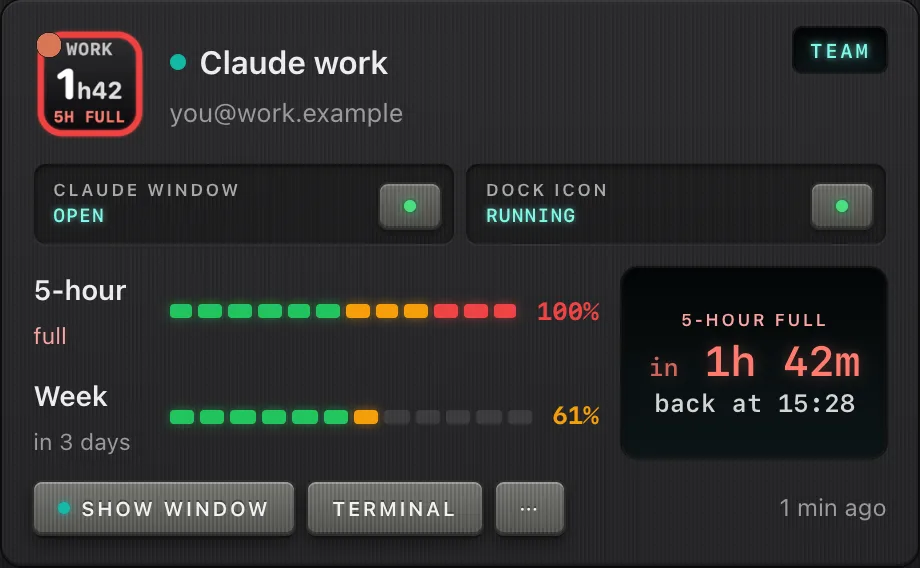
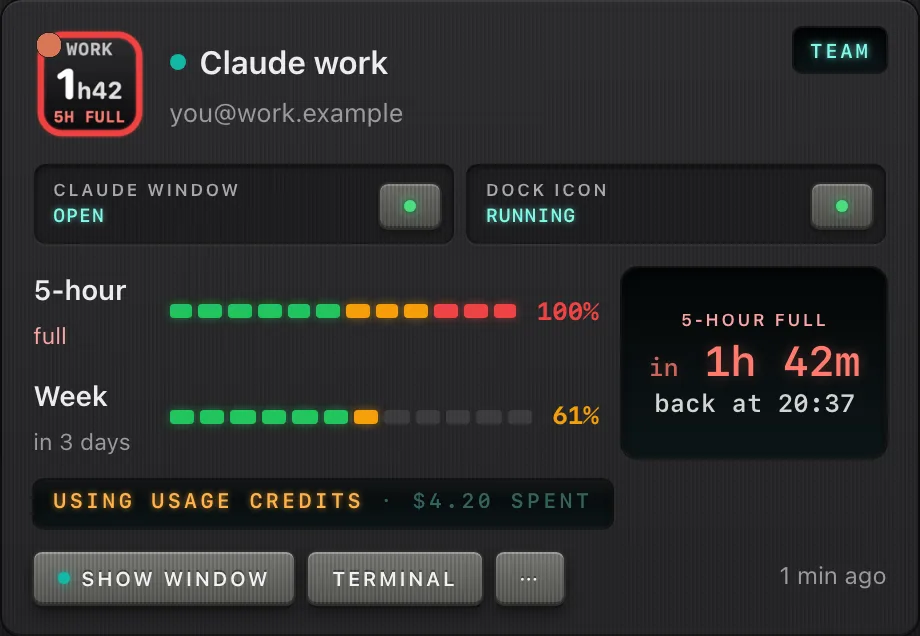
Usage history article and guide pictures for 26.11.0
The article gains the cost estimate at API list prices, the CSV key and the Usage
history switch; cache reads are priced in the estimate. The Alerts, full-limit card
and usage history pictures are recaptured from the demo (2x, Std, sample data only).
Humanize-reviewed (Sonnet).

diff --git a/src/content/use-cases/claude-code-usage-history.md b/src/content/use-cases/claude-code-usage-history.md
@@ -5,7 +5,7 @@ h1: "Claude Code usage history on your Mac"
 mainKeyword: "claude code usage history"
 kind: use-case
 published: 2026-11-02
-updated: 2026-11-02
+updated: 2026-11-04
 author: n-uf
 order: 3
 takeaways:
@@ -20,7 +20,7 @@ faq:
   - q: "Can I see usage by project?"
     a: "Yes. The \"Where it goes\" chart splits the share of tokens in the period by project, by model and by surface, so you can see which project or which model used most. The profile chips next to the period keys filter it to one account or more."
   - q: "Does it count cache reads?"
-    a: "No. The tokens chart counts input, cache writes and output, and says on the chart that cache reads are not counted. The totals are tokens and replies, not dollars."
+    a: "Not in the tokens chart: it counts input, cache writes and output, and says on the chart that cache reads are not counted. The cost estimate in the totals does include them, priced apart at the API's cache-read rate."
   - q: "Is anything uploaded?"
     a: "No. The history is read from files on your Mac. cl_audit has no server and no analytics, and its only network requests go to Anthropic, to read each profile's limits and which account it is signed in to."
 sources:
@@ -57,7 +57,7 @@ Pick 24 h, 7 d or 30 d and the charts redraw. It's free, and it runs on a Mac wi
 - **Tokens per day.** A bar for each day, per profile; in the 24 h view it becomes tokens per hour. The note on the chart says what's counted: input + cache writes + output. Cache reads are not counted.
 - **Where it goes.** The share of tokens in the period by project, by model and by surface. The project is the folder you worked in. The surface is where Claude Code ran.
 
-Above the charts, a small display gives the period's totals in replies and tokens (in the demo's 7 d view, "1,307 replies · 36.1M tokens"). The period you pick and the **Show** chips are kept between launches.
+Above the charts, a small display gives the period's totals: replies, tokens and a cost estimate, such as "1,242 replies · 34.2M tokens · ≈ $982.12 at list prices". The estimate is what the same tokens would cost on Anthropic's API at list prices, per model. It isn't your bill, and models without a published price are left out. The **CSV** key next to the period saves the history as a file, one row per day, profile and model. The period you pick and the **Show** chips are kept between launches.
 
 You can click through all of it on the [demo dashboard](/dashboard/), which runs on sample data for three made-up profiles: home, work and side.
 
@@ -123,5 +123,7 @@ Nothing stops you using two of them, or all three.
 The history is read on your Mac and stays there. cl_audit has no server, no analytics and no sign-up. It makes two kinds of request, both to Anthropic's own server: each profile's usage limits, and which account the profile is signed in to. Session files aren't sent anywhere.
 
 Those files are plain text and hold whatever passed through a session, so Anthropic's docs suggest lowering `cleanupPeriodDays` if you want them kept for less time. cl_audit reads only the five fields above. It saves the resulting usage figures per profile, and **Remove profile…** deletes them with the profile.
+
+If you'd rather it didn't read the session files at all, turn off Settings ▸ General ▸ Privacy ▸ **Usage history**. cl_audit then opens none of them, and the dashboard shows the limits only. The limits come from Anthropic either way.
 
 The source is open to read, and the [FAQ](/faq/) lists what cl_audit reads and sends. To see the history for your own sessions, [download cl_audit](/install/) and add a profile for each Claude Code folder you use. The page on [cl_audit's Dock icons](/) has the rest of the app.
